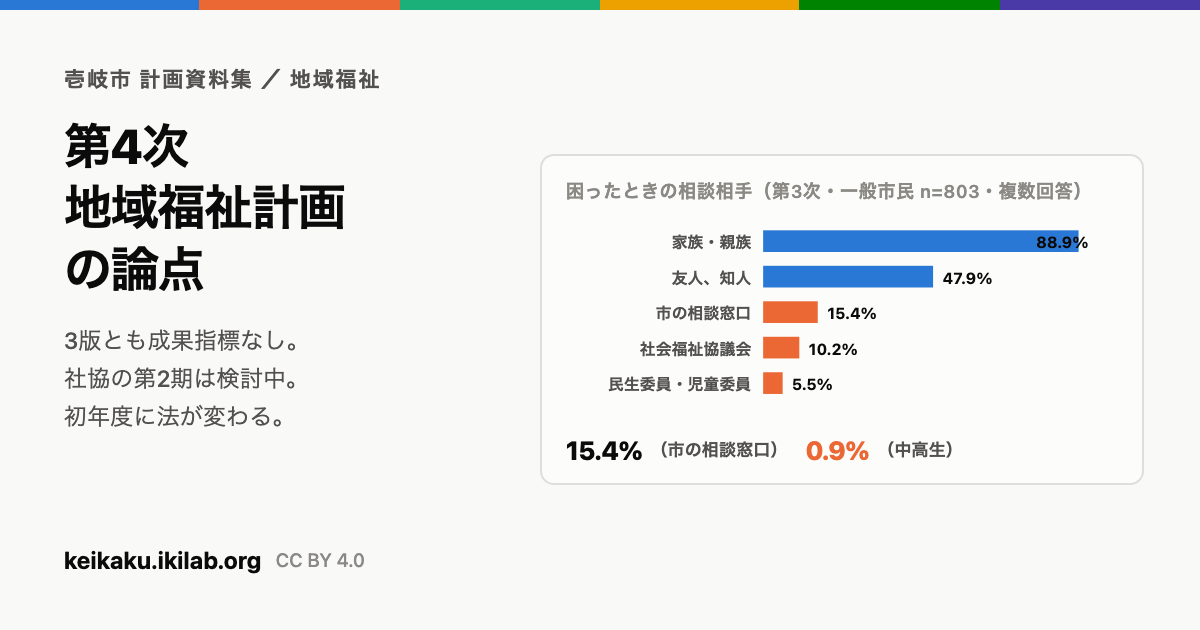
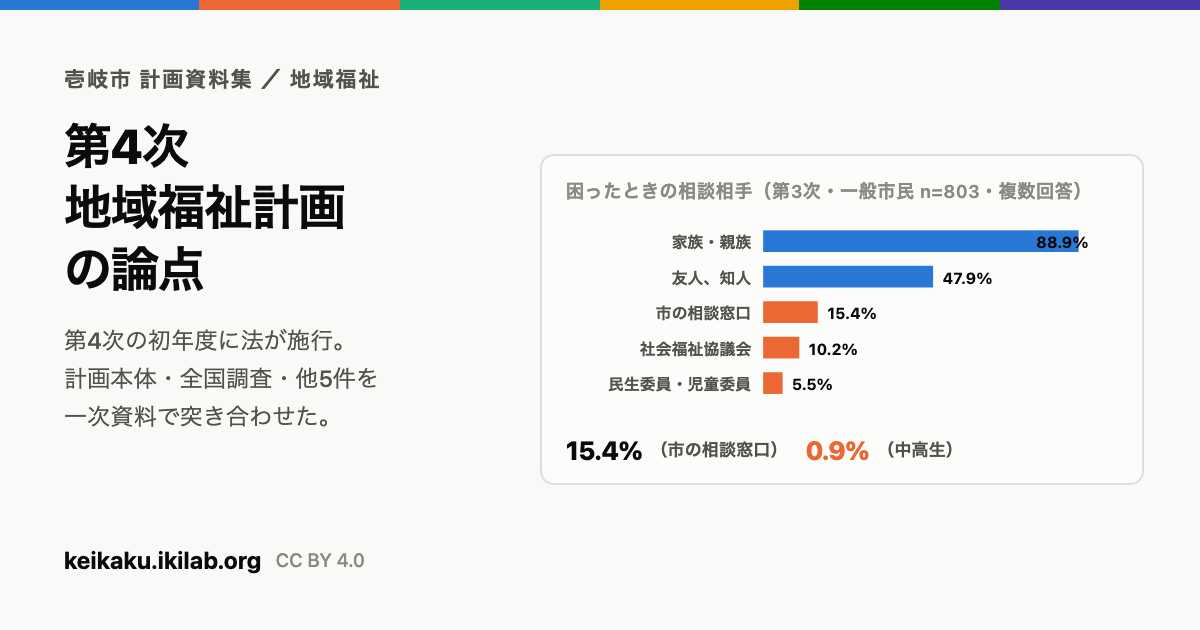
共有カードの画像を、説明文と同じ枠組みで作り直す
説明文を直したのに画像の3行が前のまま（「3版とも成果指標なし。／
社協の第2期は検討中。／初年度に法が変わる。」）で、画像と文がずれて
いた。cards.html の lead を説明文と同じ3つの拍にそろえ、PNGを
再生成する。

  第4次の初年度に法が施行。
  計画本体・全国調査・他5件を
  一次資料で突き合わせた。

裸の「3版とも成果指標なし」は、画像からも消える。数字は右側の
グラフが引き受けるので、左は何をしたページかだけを言う。

build.mjs は6枚すべてを再生成するが、差分が出たのはこの1枚だけ
だった（他5枚はバイト一致）。

Changed region(s): [[0.0308, 0.5127, 0.3083, 0.6937]]

diff --git a/tools/og/cards.html b/tools/og/cards.html
@@ -223,7 +223,7 @@ body{background:#555;padding:24px;display:flex;flex-direction:column;gap:24px;al
     <div>
       <div class="eyebrow">壱岐市 計画資料集 ／ 地域福祉</div>
       <div class="ttl sm">第4次<br>地域福祉計画<br>の論点</div>
-      <div class="lead">3版とも成果指標なし。<br>社協の第2期は検討中。<br>初年度に法が変わる。</div>
+      <div class="lead">第4次の初年度に法が施行。<br>計画本体・全国調査・他5件を<br>一次資料で突き合わせた。</div>
     </div>
     <div class="foot"><span class="dom">keikaku.ikilab.org</span><span class="by">CC BY 4.0</span></div>
   </div>
